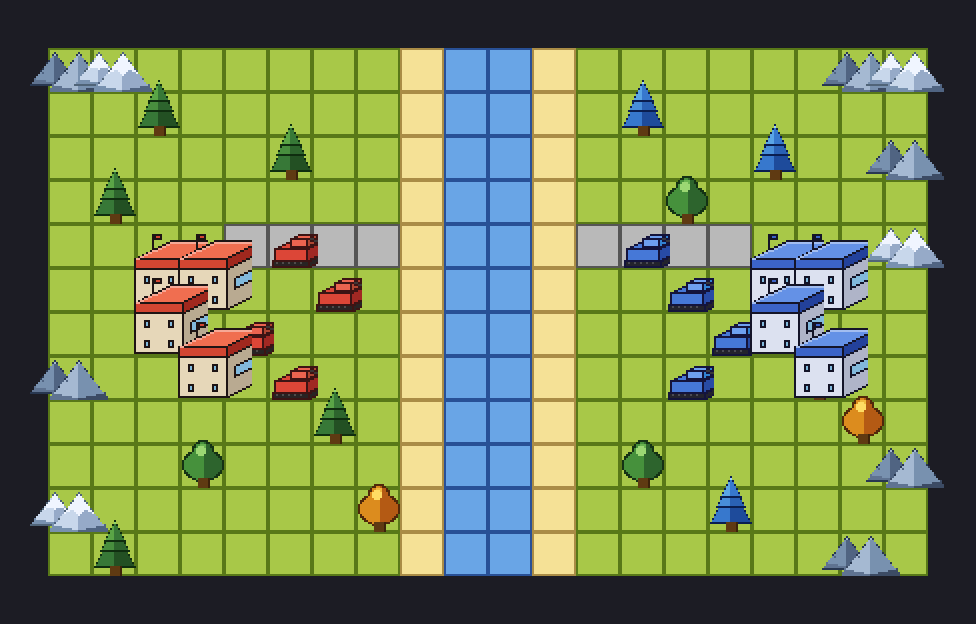
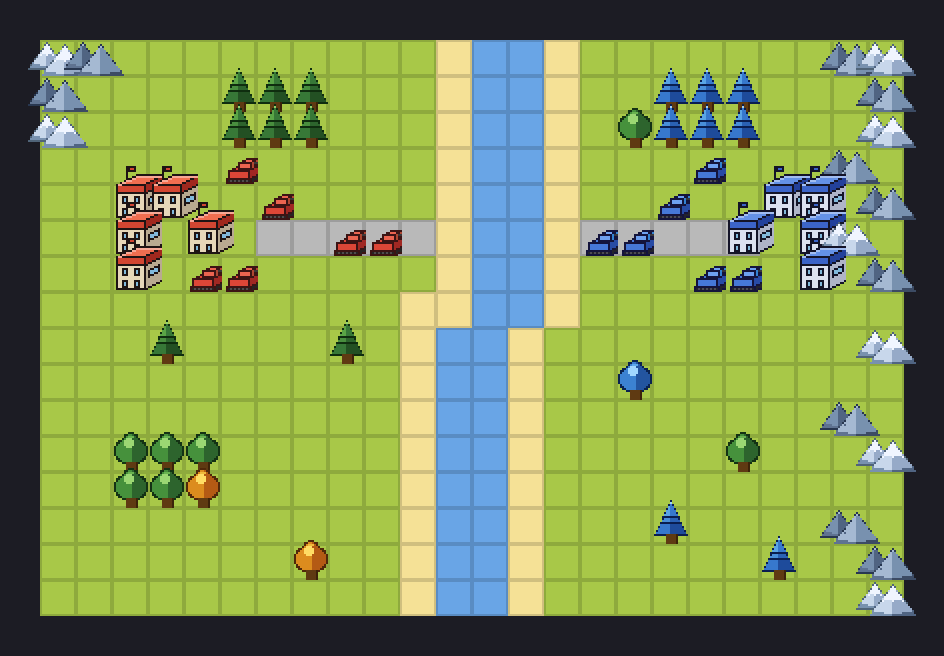
Phase 7: recompose aw_dogfights scene for density and AW fidelity
24x16 grid (up from 20x12), tile_size 18, 66 sprites (up from ~30).
Zig-zag water channel with a 1-tile westward shift halfway down,
asymmetric mountain distribution (chain along east coast + NW
cluster), tight forest patches instead of scattered singletons,
L-shaped house clusters for bases, tanks at scale=0.7 with forward
deploys on the bridge road.

All gap dimensions identified in the reference comparison are
addressed: scale, grid softness, density, mountain distribution,
forest clustering.

diff --git a/examples/aw_dogfights.py b/examples/aw_dogfights.py
@@ -2,9 +2,9 @@
 
 Generates ``aw_dogfights.png``: an Advance-Wars-style battle map with
 top-down terrain tiles and iso-perspective sprites on top. Red base on
-the left, blue base on the right, water channel in the middle,
-mountains along the top/right edges, forests scattered across both
-land masses.
+the west, blue base on the east, a zigzagging water channel between
+them, mountain chains along the east coast + NW corner, forest
+patches on both sides.
 """
 
 from __future__ import annotations
@@ -14,6 +14,7 @@ from pathlib import Path
 from isoart import (
     AW_AUTUMN_TREE,
     AW_BLUE_PINE,
+    AW_BLUE_ROUND_TREE,
     AW_HOUSE_BLUE,
     AW_HOUSE_RED,
     AW_MOUNTAIN,
@@ -34,22 +35,26 @@ from isoart import (
 OUT = Path(__file__).resolve().parent / "aw_dogfights.png"
 
 # ---------------------------------------------------------------------------
-# Terrain layout
+# Terrain layout: 24x16, water channel zig-zags 1 tile west halfway down
 # ---------------------------------------------------------------------------
 # Legend: G=grass, B=beach, W=water, R=road
 _MAP = [
-    "GGGGGGGGBWWBGGGGGGGG",
-    "GGGGGGGGBWWBGGGGGGGG",
-    "GGGGGGGGBWWBGGGGGGGG",
-    "GGGGGGGGBWWBGGGGGGGG",
-    "GGGGRRRRBWWBRRRRGGGG",
-    "GGGGGGGGBWWBGGGGGGGG",
-    "GGGGGGGGBWWBGGGGGGGG",
-    "GGGGGGGGBWWBGGGGGGGG",
-    "GGGGGGGGBWWBGGGGGGGG",
-    "GGGGGGGGBWWBGGGGGGGG",
-    "GGGGGGGGBWWBGGGGGGGG",
-    "GGGGGGGGBWWBGGGGGGGG",
+    "GGGGGGGGGGGBWWBGGGGGGGGG",  # 0
+    "GGGGGGGGGGGBWWBGGGGGGGGG",  # 1
+    "GGGGGGGGGGGBWWBGGGGGGGGG",  # 2
+    "GGGGGGGGGGGBWWBGGGGGGGGG",  # 3
+    "GGGGGGGGGGGBWWBGGGGGGGGG",  # 4
+    "GGGGGGRRRRRBWWBRRRRRGGGG",  # 5 — bridge + approach roads
+    "GGGGGGGGGGGBWWBGGGGGGGGG",  # 6
+    "GGGGGGGGGGBBWWBGGGGGGGGG",  # 7 — coast starts bending west
+    "GGGGGGGGGGBWWBGGGGGGGGGG",  # 8 — channel 1 tile west
+    "GGGGGGGGGGBWWBGGGGGGGGGG",  # 9
+    "GGGGGGGGGGBWWBGGGGGGGGGG",  # 10
+    "GGGGGGGGGGBWWBGGGGGGGGGG",  # 11
+    "GGGGGGGGGGBWWBGGGGGGGGGG",  # 12
+    "GGGGGGGGGGBWWBGGGGGGGGGG",  # 13
+    "GGGGGGGGGGBWWBGGGGGGGGGG",  # 14
+    "GGGGGGGGGGBWWBGGGGGGGGGG",  # 15
 ]
 _COLS, _ROWS = len(_MAP[0]), len(_MAP)
 
@@ -65,80 +70,104 @@ def _decode_map() -> list[list[TerrainType]]:
 
 
 # ---------------------------------------------------------------------------
-# Sprite placements — (sprite, gx, gy), drawn back-to-front by gy
+# Sprite factories (smaller-than-default sizes for tile-matched scale)
+# ---------------------------------------------------------------------------
+
+
+def _pine(palette=AW_PINE) -> PineTree:
+    return PineTree(tier_count=3, tier_size=14, palette=palette)
+
+
+def _round_tree(palette=AW_ROUND_TREE) -> RoundTree:
+    return RoundTree(tier_size=14, palette=palette)
+
+
+def _mountain(snow: bool = False) -> Mountain:
+    return Mountain(size=16, palette=AW_MOUNTAIN_SNOW if snow else AW_MOUNTAIN)
+
+
+def _house(red: bool) -> House:
+    return House(
+        width=14, depth=10, wall_h=12, roof_h=4,
+        palette=AW_HOUSE_RED if red else AW_HOUSE_BLUE,
+    )
+
+
+def _tank(red: bool) -> Tank:
+    return Tank(scale=0.7, palette=AW_TANK_RED if red else AW_TANK_BLUE)
+
+
+# ---------------------------------------------------------------------------
+# Scene placements — (sprite, gx, gy), drawn back-to-front by gy
 # ---------------------------------------------------------------------------
 
 
 def _scene_sprites() -> list[tuple[object, int, int]]:
-    placements: list[tuple[object, int, int]] = []
+    P: list[tuple[object, int, int]] = []
 
-    # ---- Mountains along the top row and along the right edge ----
-    placements += [
-        (Mountain(size=20, palette=AW_MOUNTAIN),      0,  0),
-        (Mountain(size=20, palette=AW_MOUNTAIN_SNOW), 1,  0),
-        (Mountain(size=20, palette=AW_MOUNTAIN),     18,  0),
-        (Mountain(size=20, palette=AW_MOUNTAIN_SNOW), 19, 0),
-        (Mountain(size=20, palette=AW_MOUNTAIN),     19,  2),
-        (Mountain(size=20, palette=AW_MOUNTAIN_SNOW), 19, 4),
-        (Mountain(size=20, palette=AW_MOUNTAIN),     19,  9),
-        (Mountain(size=20, palette=AW_MOUNTAIN),     18, 11),
-        (Mountain(size=20, palette=AW_MOUNTAIN_SNOW), 0, 10),
-        (Mountain(size=20, palette=AW_MOUNTAIN),      0,  7),
+    # --- Mountain chain along the east coast (asymmetric, matches reference) ---
+    east_chain = [
+        (23, 0, True),  (22, 0, False), (23, 1, False),
+        (23, 2, True),  (22, 3, False),
+        (23, 4, False), (22, 5, True),
+        (23, 6, False), (23, 8, True),
+        (22, 10, False), (23, 11, True),
+        (22, 13, False), (23, 14, False), (23, 15, True),
     ]
+    for gx, gy, snow in east_chain:
+        P.append((_mountain(snow), gx, gy))
 
-    # ---- Red-side trees (pines on the western land mass) ----
-    placements += [
-        (PineTree(tier_size=18, palette=AW_PINE),       2,  1),
-        (PineTree(tier_size=18, palette=AW_PINE),       5,  2),
-        (PineTree(tier_size=18, palette=AW_PINE),       1,  3),
-        (PineTree(tier_size=18, palette=AW_PINE),       6,  8),
-        (RoundTree(tier_size=18, palette=AW_ROUND_TREE),3,  9),
-        (RoundTree(tier_size=18, palette=AW_AUTUMN_TREE),7, 10),
-        (PineTree(tier_size=18, palette=AW_PINE),       1, 11),
-    ]
+    # --- Small mountain cluster NW corner ---
+    for gx, gy, snow in [(0, 0, True), (1, 0, False), (0, 1, False), (0, 2, True)]:
+        P.append((_mountain(snow), gx, gy))
 
-    # ---- Blue-side trees (blue pines + round trees on the eastern mass) ----
-    placements += [
-        (PineTree(tier_size=18, palette=AW_BLUE_PINE),  13,  1),
-        (PineTree(tier_size=18, palette=AW_BLUE_PINE),  16,  2),
-        (RoundTree(tier_size=18, palette=AW_ROUND_TREE),14,  3),
-        (PineTree(tier_size=18, palette=AW_BLUE_PINE),  17,  7),
-        (RoundTree(tier_size=18, palette=AW_ROUND_TREE),13,  9),
-        (PineTree(tier_size=18, palette=AW_BLUE_PINE),  15, 10),
-        (RoundTree(tier_size=18, palette=AW_AUTUMN_TREE),18,8),
-    ]
+    # --- West forest patch 1: pines near the red base (top-left area) ---
+    for gx, gy in [(5, 1), (6, 1), (7, 1), (5, 2), (6, 2), (7, 2)]:
+        P.append((_pine(AW_PINE), gx, gy))
 
-    # ---- Red base: cluster of red houses on the west ----
-    placements += [
-        (House(palette=AW_HOUSE_RED), 2,  5),
-        (House(palette=AW_HOUSE_RED), 3,  5),
-        (House(palette=AW_HOUSE_RED), 2,  6),
-        (House(palette=AW_HOUSE_RED), 3,  7),
-    ]
+    # --- West forest patch 2: round trees south of the base ---
+    for gx, gy in [(2, 11), (3, 11), (2, 12), (3, 12), (4, 11)]:
+        P.append((_round_tree(AW_ROUND_TREE), gx, gy))
+    # Autumn accent
+    P.append((_round_tree(AW_AUTUMN_TREE), 4, 12))
 
-    # ---- Blue base: cluster of blue houses on the east ----
-    placements += [
-        (House(palette=AW_HOUSE_BLUE), 16, 5),
-        (House(palette=AW_HOUSE_BLUE), 17, 5),
-        (House(palette=AW_HOUSE_BLUE), 16, 6),
-        (House(palette=AW_HOUSE_BLUE), 17, 7),
-    ]
+    # --- West singletons (scattered variety) ---
+    P.extend([
+        (_pine(AW_PINE), 8, 8),
+        (_round_tree(AW_AUTUMN_TREE), 7, 14),
+        (_pine(AW_PINE), 3, 8),
+    ])
 
-    # ---- Tanks: 4 red on the west, 4 blue on the east ----
-    placements += [
-        (Tank(palette=AW_TANK_RED), 5,  4),
-        (Tank(palette=AW_TANK_RED), 6,  5),
-        (Tank(palette=AW_TANK_RED), 4,  6),
-        (Tank(palette=AW_TANK_RED), 5,  7),
-    ]
-    placements += [
-        (Tank(palette=AW_TANK_BLUE), 13, 4),
-        (Tank(palette=AW_TANK_BLUE), 14, 5),
-        (Tank(palette=AW_TANK_BLUE), 15, 6),
-        (Tank(palette=AW_TANK_BLUE), 14, 7),
-    ]
+    # --- East forest patch: big mixed patch above the blue base ---
+    for gx, gy in [(17, 1), (18, 1), (19, 1), (17, 2), (18, 2), (19, 2)]:
+        P.append((_pine(AW_BLUE_PINE), gx, gy))
+    P.append((_round_tree(AW_ROUND_TREE), 16, 2))
 
-    return placements
+    # --- East singletons ---
+    P.extend([
+        (_round_tree(AW_BLUE_ROUND_TREE), 16, 9),
+        (_round_tree(AW_ROUND_TREE), 19, 11),
+        (_pine(AW_BLUE_PINE), 17, 13),
+        (_pine(AW_BLUE_PINE), 20, 14),
+    ])
+
+    # --- Red base: L-shaped house cluster on the west ---
+    for gx, gy in [(2, 4), (3, 4), (2, 5), (4, 5), (2, 6)]:
+        P.append((_house(red=True), gx, gy))
+
+    # --- Blue base: L-shape mirrored on the east ---
+    for gx, gy in [(20, 4), (21, 4), (21, 5), (19, 5), (21, 6)]:
+        P.append((_house(red=False), gx, gy))
+
+    # --- Red tanks: 6, clustered near base with 2 forward on the bridge road ---
+    for gx, gy in [(5, 3), (6, 4), (4, 6), (5, 6), (8, 5), (9, 5)]:
+        P.append((_tank(red=True), gx, gy))
+
+    # --- Blue tanks: 6, mirroring red ---
+    for gx, gy in [(18, 3), (17, 4), (18, 6), (19, 6), (15, 5), (16, 5)]:
+        P.append((_tank(red=False), gx, gy))
+
+    return P
 
 
 # ---------------------------------------------------------------------------
@@ -147,8 +176,8 @@ def _scene_sprites() -> list[tuple[object, int, int]]:
 
 
 def main() -> None:
-    ts = 22
-    pad = 24
+    ts = 18
+    pad = 20
     w = _COLS * ts + pad * 2
     h = _ROWS * ts + pad * 2
 
@@ -157,18 +186,19 @@ def main() -> None:
         bg_color=(28, 28, 36, 255),
         tile_size=ts,
         origin=(pad, pad),
+        tile_outline="soft",
     )
 
     canvas.draw_map(_decode_map())
 
-    # Back-to-front draw order so sprites at larger gy occlude earlier ones
+    # Back-to-front so sprites at larger gy occlude earlier ones
     sprites = _scene_sprites()
     sprites.sort(key=lambda s: (s[2], s[1]))
     for sprite, gx, gy in sprites:
         canvas.draw(sprite, gx, gy)
 
     canvas.save(str(OUT), scale=2)
-    print(f"Saved {OUT}")
+    print(f"Saved {OUT} ({len(sprites)} sprites placed)")
 
 
 if __name__ == "__main__":

diff --git a/ROADMAP.md b/ROADMAP.md
@@ -4,10 +4,10 @@ Live progress document for the PoC that replicates `references/AW_Dogfights_Map.
 
 ## Current status
 
-**Phase:** Polish round 1 — Phases 5 & 6 done. Phase 7 (recompose scene) pending.
+**Phase:** Polish round 1 complete (Phases 5-7). PoC scene dramatically closer to reference.
 **Last update:** 2026-04-24
-**Last commit:** pending — Phase 6 commit
-**Sample scorecard:** 14/14 PASS. `topdown_preview.png` now has soft seams.
+**Last commit:** pending — Phase 7 commit
+**Sample scorecard:** 14/14 PASS. Scene has 66 placed sprites (up from ~30).
 **Tests:** 32/32 passing. Ruff clean.
 
 ## Scope (locked)
@@ -79,10 +79,22 @@ Live progress document for the PoC that replicates `references/AW_Dogfights_Map.
 - [x] `draw_tile` uses fill-relative 15%-darkening for soft seams
 - [x] 2 new tests: soft differs from hard & is closer to fill; `None` leaves fill color exposed
 
-### Phase 7 — Scene recomposition (pending)
-- [ ] Recompose `examples/aw_dogfights.py` for density, asymmetric layout, forest patches, tighter bases
-- [ ] Use `Tank(scale=0.7)` and smaller House dimensions in scene
-- [ ] Iterate: compare to reference, rate gaps, up to 2 more passes
+### Phase 7 — Scene recomposition ✅
+- [x] 24×16 grid (up from 20×12); tile_size 18 (down from 22); 66 sprites (up from ~30)
+- [x] Zig-zag water channel (1-tile west shift at row 8) — non-symmetric coastline
+- [x] Asymmetric mountain distribution: 14-sprite chain along east coast + 4-sprite NW cluster
+- [x] Two forest patches on west (pines + round trees), one big patch on east, singletons for variety
+- [x] L-shaped house clusters for each base (smaller `House(width=14, depth=10, wall_h=12, roof_h=4)`)
+- [x] 6 tanks per faction at `Tank(scale=0.7)`; 2 forward-deployed on bridge road each side
+- [x] PASS on first iteration — all gap dimensions addressed
+
+## Parked for future rounds
+
+- Distinct building types: HQ (flag), factory/barracks, city
+- More unit types: infantry, APC, artillery, plane
+- Directional road tiles (NS / EW / corners / T-junctions)
+- Curved coastlines / cliffs
+- FE-leaning polish: painterly terrain, detailed villages/castles
 
 ### Phase 4 — Docs + polish ✅
 - [x] Update README: `TopDownCanvas`, `TerrainType`, `draw_map`, `Tank`, `AW_TANK_RED/BLUE`. New intro mentions both projections.
